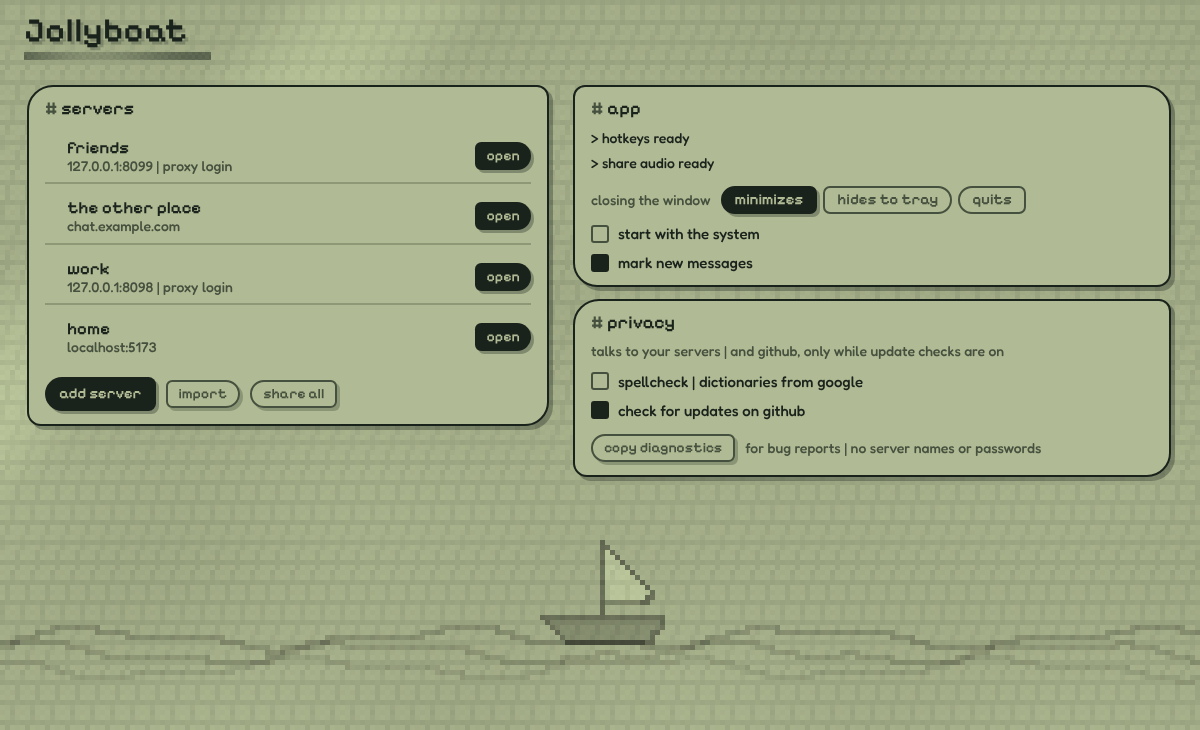
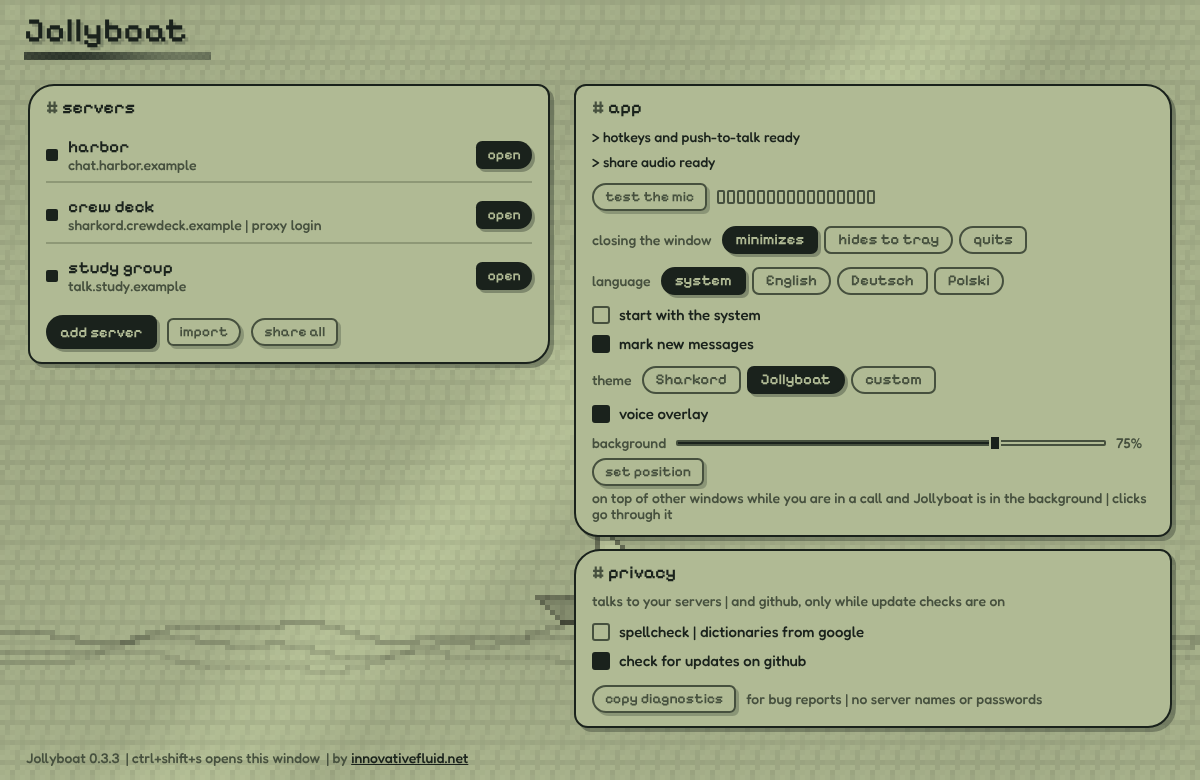
Overlay always lets clicks through, placed once with "set position"; README pass
- the overlay ignores the mouse always; its buttons and the click-through option are gone
  (mute / deafen / pop-out live in Sharkord, the bar and the hotkeys)
- "set position" (settings, under the overlay): it shows, with a stand-in row outside a call,
  becomes draggable with a dashed edge and a done button; done saves the spot. not on wayland,
  where an app can neither move its window nor learn where it is (the hint says so)
- README: sorted into "in a call" and "around it", screenshot of the Jollyboat theme on a
  Sharkord page, fresh settings screenshot

Claude-Session: https://claude.ai/code/session_01QEMnCDTKkcJ4ZdL3ogefjx

diff --git a/src/main/overlay.ts b/src/main/overlay.ts
@@ -1,12 +1,15 @@
 // The voice overlay (opt-in): a small always-on-top window listing who is in our voice channel,
 // who talks, who is muted. It shows while we are in a call and the server window is not the
-// focused one (you see Sharkord itself then), and remembers where it was dragged to.
+// focused one (you see Sharkord itself then). Clicks always go through it to whatever is
+// underneath; "set position" in the settings makes it draggable once, until its done button.
 //
-// Wayland: the desktop places windows and decides about "always on top", so there the overlay is
-// a normal small window (KDE can keep it above with a window rule).
+// Wayland: the desktop places windows and decides about "always on top" (an app can neither
+// move its window nor learn where it is), so there is no "set position" there; KDE can keep
+// it above and in place with a window rule.
 
 import { BrowserWindow, screen } from 'electron';
 import type { TOverlayState, TVoiceMember, TVoiceState } from '../shared/types';
+import { t } from './lang';
 import { iconPath, pageUrl, preloadPath } from './paths';
 import { getSettings, saveSettings } from './settings';
 
@@ -14,8 +17,7 @@ const WIDTH = 240;
 
 let win: BrowserWindow | null = null;
 let inVoice = false;
-let voice: TVoiceState = { connected: false, inVoice: false, micMuted: false, deafened: false, speaking: false };
-let streams = 0;
+let positioning = false;
 let channel = '';
 let members: TVoiceMember[] = [];
 let theme: 'light' | 'dark' = 'light';
@@ -25,7 +27,7 @@ let lastSent = '';
 
 export const isWayland = () => process.platform === 'linux' && (process.env.XDG_SESSION_TYPE === 'wayland' || !!process.env.WAYLAND_DISPLAY);
 
-const wanted = () => getSettings().overlay && inVoice && !hostFocused;
+const wanted = () => getSettings().overlay && (positioning || (inVoice && !hostFocused));
 
 /** the saved position, if it is still on a display; else the top left of the main display */
 const position = () => {
@@ -38,16 +40,19 @@ const position = () => {
   return { x: area.x + 24, y: area.y + 24 };
 };
 
+// while it is being placed outside a call: a stand-in row, so it has its usual size
+const sample = (): TVoiceMember[] => [{ name: t('you'), self: false, speaking: true, micMuted: false, deafened: false, sharing: false, video: false }];
+
 const state = (): TOverlayState => ({
-  channel,
-  members,
+  channel: positioning && !inVoice ? t('voice') : channel,
+  members: positioning && !members.length ? sample() : members,
   theme,
   opacity: getSettings().overlayOpacity,
-  micMuted: voice.micMuted,
-  deafened: voice.deafened,
-  streams,
-  clickThrough: getSettings().overlayClickThrough
+  positioning
 });
+
+/** clicks pass through, except while it is being placed */
+const applyMouse = () => win?.setIgnoreMouseEvents(!positioning, { forward: false });
 
 const send = () => {
   if (!win || win.isDestroyed()) return;
@@ -92,20 +97,9 @@ const create = () => {
   win.webContents.on('will-navigate', (event) => event.preventDefault());
   win.webContents.on('did-finish-load', () => {
     lastSent = '';
-    win?.setIgnoreMouseEvents(getSettings().overlayClickThrough, { forward: true });
+    applyMouse();
     send();
-    if (wanted()) win?.showInactive();
-  });
-  // a drag fires this many times: the spot is written once it comes to rest
-  let moveTimer: NodeJS.Timeout | null = null;
-  win.on('moved', () => {
-    if (moveTimer) clearTimeout(moveTimer);
-    moveTimer = setTimeout(() => {
-      moveTimer = null;
-      if (!win) return;
-      const [nx, ny] = win.getPosition();
-      saveSettings({ overlayPosition: { x: nx!, y: ny! } });
-    }, 400);
+    if (wanted()) (positioning ? win?.show() : win?.showInactive());
   });
   win.on('closed', () => {
     win = null;
@@ -118,6 +112,7 @@ const create = () => {
 /** show, hide or update the overlay after anything it depends on changed */
 export const refreshOverlay = () => {
   if (!getSettings().overlay) {
+    positioning = false;
     win?.destroy();
     win = null;
     return;
@@ -127,18 +122,36 @@ export const refreshOverlay = () => {
     return;
   }
   if (!win) return create();
-  // let clicks through (position locked, buttons off) or not; mouse moves still reach the page
-  win.setIgnoreMouseEvents(getSettings().overlayClickThrough, { forward: true });
+  applyMouse();
   send();
   if (!win.isVisible()) win.showInactive();
 };
 
-export const setOverlayVoice = (next: TVoiceState, name: string, list: TVoiceMember[], playing: number) => {
-  voice = next;
+export const setOverlayVoice = (next: TVoiceState, name: string, list: TVoiceMember[]) => {
   inVoice = next.inVoice;
-  streams = playing;
   channel = name;
   members = inVoice ? list : [];
+  refreshOverlay();
+};
+
+/** "set position": shown and draggable until its done button (not on wayland, see above) */
+export const startPositioning = () => {
+  if (!getSettings().overlay || isWayland()) return;
+  positioning = true;
+  if (!win) return create();
+  applyMouse();
+  send();
+  win.show();
+  win.focus();
+};
+
+export const finishPositioning = () => {
+  if (!positioning) return;
+  positioning = false;
+  if (win) {
+    const [x, y] = win.getPosition();
+    saveSettings({ overlayPosition: { x: x!, y: y! } });
+  }
   refreshOverlay();
 };
 
@@ -162,4 +175,4 @@ export const setOverlayHeight = (sender: Electron.WebContents, h: number) => {
 };
 
 export const describeOverlay = () =>
-  `overlay: ${getSettings().overlay ? `on, ${getSettings().overlayOpacity}% background${getSettings().overlayClickThrough ? ', click-through' : ''}${win?.isVisible() ? ', showing' : ''}${isWayland() ? ', wayland' : ''}` : 'off'}`;
+  `overlay: ${getSettings().overlay ? `on, ${getSettings().overlayOpacity}% background${getSettings().overlayPosition ? ', placed' : ''}${win?.isVisible() ? ', showing' : ''}${isWayland() ? ', wayland' : ''}` : 'off'}`;

diff --git a/src/main/ipc.ts b/src/main/ipc.ts
@@ -1,7 +1,7 @@
 import { BrowserWindow, ipcMain, net, safeStorage, shell, webContents, type BaseWindow, type IpcMainEvent, type IpcMainInvokeEvent } from 'electron';
 import type { TServerInput, TSettings, TTestResult, TVoiceReport } from '../shared/types';
-import { isWayland, refreshOverlay, setOverlayHeight, setOverlayVoice } from './overlay';
-import { getMainPage, popOutStream, setStreams } from './popout';
+import { finishPositioning, isWayland, refreshOverlay, setOverlayHeight, setOverlayVoice, startPositioning } from './overlay';
+import { setStreams } from './popout';
 import { editCustomCss, refreshCustomCss, useExample } from './customcss';
 import { currentLang, onLanguageChange, t } from './lang';
 import { getAutoStart, isAutoStartSupported, setAutoStart } from './autostart';
@@ -64,7 +64,6 @@ const pickSettingsPatch = (patch: unknown): Partial<TSettings> => {
   if (p.onClose === 'minimize' || p.onClose === 'tray' || p.onClose === 'quit') out.onClose = p.onClose;
   if (typeof p.notifyTray === 'boolean') out.notifyTray = p.notifyTray;
   if (typeof p.overlay === 'boolean') out.overlay = p.overlay;
-  if (typeof p.overlayClickThrough === 'boolean') out.overlayClickThrough = p.overlayClickThrough;
   if (p.theme === 'none' || p.theme === 'jollyboat' || p.theme === 'custom') out.theme = p.theme;
   if (p.language === 'system' || p.language === 'en' || p.language === 'de' || p.language === 'pl') out.language = p.language;
   if (typeof p.overlayOpacity === 'number' && Number.isFinite(p.overlayOpacity)) out.overlayOpacity = Math.min(100, Math.max(0, Math.round(p.overlayOpacity)));
@@ -176,11 +175,10 @@ export const registerIpc = ({ connectToServer, getMainWindow, spellcheckAtStart 
     if (ownPageOf(event.senderFrame?.url ?? '') !== 'overlay') return;
     setOverlayHeight(event.sender, Number(h));
   });
-  // the overlay's buttons: sharkord's own mic / deafen buttons, or the stream pop-out
-  ipcMain.on('overlay:action', (event, action: unknown) => {
+  // the overlay while it is being placed: its done button
+  ipcMain.on('overlay:done', (event) => {
     if (ownPageOf(event.senderFrame?.url ?? '') !== 'overlay') return;
-    if (action === 'mic' || action === 'sound') getMainPage()?.send('shell:voice-action', action);
-    else if (action === 'popout') void popOutStream();
+    finishPositioning();
   });
   ipcMain.on('server:voice', (event, state: TVoiceReport) => {
     if (!fromSavedServer(event)) return;
@@ -204,7 +202,7 @@ export const registerIpc = ({ connectToServer, getMainWindow, spellcheckAtStart 
       sharing: m?.sharing === true,
       video: m?.video === true
     }));
-    setOverlayVoice(voice, String(state?.channel ?? '').slice(0, 64), members, Math.max(0, Math.min(99, Number(state?.streams) || 0)));
+    setOverlayVoice(voice, String(state?.channel ?? '').slice(0, 64), members);
     setStreams(voice.inVoice ? Math.max(0, Math.min(99, Number(state?.streams) || 0)) : 0);
   });
   ipcMain.on('server:notification', (event) => {
@@ -259,7 +257,7 @@ export const registerIpc = ({ connectToServer, getMainWindow, spellcheckAtStart 
     const saved = saveSettings(picked);
     if (picked.spellcheck !== undefined) applySpellcheck(saved.spellcheck);
     if (picked.checkUpdates === true) startUpdater();
-    if (picked.overlay !== undefined || picked.overlayOpacity !== undefined || picked.overlayClickThrough !== undefined) refreshOverlay();
+    if (picked.overlay !== undefined || picked.overlayOpacity !== undefined) refreshOverlay();
     if (picked.theme !== undefined) refreshCustomCss();
     if (picked.language !== undefined) onLanguageChange();
     return saved;
@@ -282,6 +280,7 @@ export const registerIpc = ({ connectToServer, getMainWindow, spellcheckAtStart 
   ipcMain.handle('servers:connect', guard((_e, id: unknown) => connectToServer(String(id))));
   ipcMain.handle('bridge:status', guard(() => getBridgeStatus()));
   ipcMain.handle('css:edit', guard(() => editCustomCss()));
+  ipcMain.handle('overlay:position', guard(() => startPositioning()));
   ipcMain.handle('css:example', guard(() => useExample()));
   ipcMain.handle('screenAudio:info', guard(() => describeScreenAudio()));
 

diff --git a/src/renderer/overlay/index.html b/src/renderer/overlay/index.html
@@ -21,23 +21,20 @@
         border: 2px solid rgba(var(--fg-rgb), max(var(--alpha), 0.0));
         border-radius: 10px 4px 10px 4px;
         padding: 5px 6px 6px;
-        -webkit-app-region: drag;
-        cursor: move;
         --outline: rgba(var(--bg-rgb), calc(1 - var(--alpha) * 0.6));
         text-shadow: 1px 0 var(--outline), -1px 0 var(--outline), 0 1px var(--outline), 0 -1px var(--outline);
       }
       .head { display: flex; align-items: center; gap: 4px; font: 500 12px/1 var(--px); color: var(--dim); padding: 1px 2px 5px 4px; }
       .head .name { flex: 1; overflow: hidden; white-space: nowrap; text-overflow: ellipsis; }
-      /* the buttons: sharkord's mic / deafen, and the stream pop-out. outline off, filled on */
-      .head button {
-        -webkit-app-region: no-drag; cursor: pointer; width: 20px; height: 18px; padding: 0; display: grid; place-items: center;
-        background: transparent; border: 2px solid var(--dim); border-radius: 3px; color: var(--dim);
+      /* being placed: draggable, a dashed edge, and the done button */
+      :root.positioning .card { -webkit-app-region: drag; cursor: move; border-style: dashed; border-color: var(--fg); }
+      .place { display: none; align-items: center; gap: 6px; padding: 6px 2px 1px 4px; font: 500 12px/1.2 var(--px); color: var(--dim); }
+      :root.positioning .place { display: flex; }
+      .place span { flex: 1; }
+      .place button {
+        -webkit-app-region: no-drag; cursor: pointer; padding: 3px 10px; font: 600 12px/1 var(--px);
+        background: var(--fg); color: var(--bg); border: 2px solid var(--fg); border-radius: 10px 4px 10px 4px;
       }
-      .head button:hover { border-color: var(--fg); color: var(--fg); }
-      .head button.on { background: var(--fg); border-color: var(--fg); color: var(--bg); }
-      .head button svg { width: 12px; height: 12px; shape-rendering: crispEdges; display: block; }
-      .head button[hidden] { display: none; }
-      :root.click-through .head button { display: none; }
       .rows { display: flex; flex-direction: column; gap: 2px; }
       .row { display: flex; align-items: center; gap: 7px; padding: 3px 5px; border-radius: 4px; font: 600 14px/1.1 var(--px); color: var(--fg); }
       .row .who { flex: 1; overflow: hidden; white-space: nowrap; text-overflow: ellipsis; }
@@ -57,11 +54,9 @@
     <div class="card" id="card">
       <div class="head">
         <span class="name" id="channel">voice</span>
-        <button id="popout" title="pop out stream" data-i18n-title hidden><svg viewBox="0 0 12 12"><path d="M0 2h6v1H1v8h8V6h1v6H0zM7 0h5v5h-1V2l-5 5-1-1 5-5H7z" fill="currentColor"/></svg></button>
-        <button id="mic" title="mute"><svg viewBox="0 0 12 12"><path d="M4 1h4v6H4zM2 5h1v2H2zM9 5h1v2H9zM3 7h1v1H3zM8 7h1v1H8zM4 8h4v1H4zM5 9h2v1H5zM3 10h6v1H3z" fill="currentColor"/></svg></button>
-        <button id="sound" title="deafen"><svg viewBox="0 0 12 12"><path d="M3 2h6v1H3zM2 3h1v3H2zM9 3h1v3H9zM1 6h3v4H1zM8 6h3v4H8z" fill="currentColor"/></svg></button>
       </div>
       <div class="rows" id="rows"></div>
+      <div class="place"><span data-i18n>drag it where you want it</span><button id="done" data-i18n>done</button></div>
     </div>
     <script type="module" src="./main.ts"></script>
   </body>

diff --git a/src/renderer/overlay/main.ts b/src/renderer/overlay/main.ts
@@ -20,12 +20,7 @@ let state: TOverlayState | null = null;
 
 translatePage();
 const card = document.getElementById('card')!;
-const mic = document.getElementById('mic') as HTMLButtonElement;
-const sound = document.getElementById('sound') as HTMLButtonElement;
-const popout = document.getElementById('popout') as HTMLButtonElement;
-mic.onclick = () => window.shell.overlayAction('mic');
-sound.onclick = () => window.shell.overlayAction('sound');
-popout.onclick = () => window.shell.overlayAction('popout');
+document.getElementById('done')!.onclick = () => window.shell.overlayDone();
 const rows = document.getElementById('rows')!;
 const channel = document.getElementById('channel')!;
 
@@ -60,12 +55,7 @@ const render = () => {
   document.documentElement.dataset.theme = state.theme;
   document.documentElement.style.setProperty('--alpha', String(state.opacity / 100));
   channel.textContent = state.channel ? `> ${state.channel}` : `> ${t('voice')}`;
-  document.documentElement.classList.toggle('click-through', state.clickThrough);
-  mic.classList.toggle('on', state.micMuted);
-  mic.title = state.micMuted ? t('unmute') : t('mute');
-  sound.classList.toggle('on', state.deafened);
-  sound.title = state.deafened ? t('undeafen') : t('deafen');
-  popout.hidden = !state.streams;
+  document.documentElement.classList.toggle('positioning', state.positioning);
   rows.replaceChildren(...state.members.map((m) => rowFor(m, now)));
   if (!state.members.length) {
     const empty = document.createElement('div');

diff --git a/src/shared/types.ts b/src/shared/types.ts
@@ -46,8 +46,6 @@ export type TSettings = {
   language: 'system' | 'en' | 'de' | 'pl';
   /** a theme on the server page: none, the app's own lcd look, or custom.css next to the settings */
   theme: 'none' | 'jollyboat' | 'custom';
-  /** clicks go through the overlay to whatever is under it (the buttons are off then) */
-  overlayClickThrough: boolean;
   /** where the overlay was left (top-left corner), null = top left of the main display */
   overlayPosition: { x: number; y: number } | null;
   /** flatpak: what the background portal last granted for starting at login (the portal's
@@ -68,7 +66,7 @@ export type TVoiceMember = { name: string; self: boolean; speaking: boolean; mic
 export type TVoiceReport = TVoiceState & { channel: string; members: TVoiceMember[]; /** playing stream videos (screen shares, cameras) that could be popped out */ streams: number };
 
 /** what the overlay window shows */
-export type TOverlayState = { channel: string; members: TVoiceMember[]; theme: 'light' | 'dark'; opacity: number; micMuted: boolean; deafened: boolean; streams: number; clickThrough: boolean };
+export type TOverlayState = { channel: string; members: TVoiceMember[]; theme: 'light' | 'dark'; opacity: number; /** being placed: draggable, with a done button */ positioning: boolean };
 
 export type TUpdateStatus = { state: 'idle' | 'checking' | 'available' | 'downloaded' | 'none' | 'error'; version?: string; message?: string; url?: string };
 

diff --git a/src/renderer/launcher/main.ts b/src/renderer/launcher/main.ts
@@ -351,16 +351,16 @@ const renderSettings = async () => {
   overlay.checked = settings.overlay;
   opacity.value = String(settings.overlayOpacity);
   $('overlay-options').hidden = !overlay.checked;
-  if (window.shell.wayland) $('overlay-hint').textContent = t('shows while you are in a call and Jollyboat is in the background | on wayland the desktop places it (kde: a window rule keeps it on top)');
+  if (window.shell.wayland) $('overlay-hint').textContent = t('on top of other windows while you are in a call and Jollyboat is in the background | clicks go through it | on wayland the desktop places it (kde: a window rule keeps it in place and on top)');
   showOpacity();
   overlay.onchange = () => {
     $('overlay-options').hidden = !overlay.checked;
     window.shell.saveSettings({ overlay: overlay.checked });
     toast(t('saved'));
   };
-  const clickThrough = $<HTMLInputElement>('overlay-click-through');
-  clickThrough.checked = settings.overlayClickThrough;
-  clickThrough.onchange = () => { window.shell.saveSettings({ overlayClickThrough: clickThrough.checked }); toast('saved'); };
+  // placing it: shown and draggable until its done button. wayland lets the desktop place it
+  $('overlay-position-row').hidden = window.shell.wayland;
+  $('overlay-position').onclick = () => window.shell.positionOverlay();
   let opacityTimer = 0;
   opacity.oninput = () => {
     showOpacity();

diff --git a/src/preload/index.ts b/src/preload/index.ts
@@ -39,6 +39,7 @@ if (boot.ownPage) {
       screenAudioInfo: () => ipcRenderer.invoke('screenAudio:info'),
       openWebsite: () => ipcRenderer.invoke('app:website'),
       editCustomCss: () => ipcRenderer.invoke('css:edit') as Promise<string>,
+      positionOverlay: () => ipcRenderer.invoke('overlay:position'),
       useCssExample: () => ipcRenderer.invoke('css:example'),
       shareCode: (ids: string[] | null, withPasswords: boolean) => ipcRenderer.invoke('share:code', ids, withPasswords),
       exportFile: (ids: string[] | null, withPasswords: boolean) => ipcRenderer.invoke('share:exportFile', ids, withPasswords),
@@ -74,7 +75,7 @@ if (boot.ownPage) {
         ipcRenderer.on('overlay:state', (_e, state) => cb(state));
       },
       overlayHeight: (h: number) => ipcRenderer.send('overlay:height', h),
-      overlayAction: (action: 'mic' | 'sound' | 'popout') => ipcRenderer.send('overlay:action', action)
+      overlayDone: () => ipcRenderer.send('overlay:done')
     }
   };
   contextBridge.exposeInMainWorld('shell', { ...common, ...(boot.ownPage ? byPage[boot.ownPage] : {}) });

diff --git a/src/renderer/launcher/index.html b/src/renderer/launcher/index.html
@@ -134,8 +134,8 @@
                 <input type="range" class="slider" id="overlay-opacity" min="0" max="100" step="5" aria-label="overlay background" />
                 <span class="meta" id="overlay-opacity-value" style="min-width: 38px"></span>
               </div>
-              <label class="check" style="margin-top: 6px; display: flex"><input type="checkbox" id="overlay-click-through" /> <span data-i18n>clicks go through it | buttons off, hotkeys only</span></label>
-              <div class="hint" id="overlay-hint" style="margin-top: 4px" data-i18n>on top of other windows while you are in a call and Jollyboat is in the background | drag it where you want it</div>
+              <div class="row" style="margin-top: 6px" id="overlay-position-row"><button class="pill minor small" id="overlay-position" data-i18n>set position</button></div>
+              <div class="hint" id="overlay-hint" style="margin-top: 4px" data-i18n>on top of other windows while you are in a call and Jollyboat is in the background | clicks go through it</div>
             </div>
           </section>
 

diff --git a/src/main/settings.ts b/src/main/settings.ts
@@ -14,7 +14,6 @@ const DEFAULTS: TSettings = {
   autostart: false,
   overlay: false,
   overlayOpacity: 75,
-  overlayClickThrough: false,
   theme: 'none',
   language: 'system',
   overlayPosition: null,
@@ -67,7 +66,7 @@ const sanitize = (raw: unknown): TSettings => {
   else if (r.customCss === true) out.theme = 'custom'; // 0.3.2
   if (r.language === 'system' || r.language === 'en' || r.language === 'de' || r.language === 'pl') out.language = r.language;
   if (r.onClose === 'minimize' || r.onClose === 'tray' || r.onClose === 'quit') out.onClose = r.onClose;
-  for (const key of ['spellcheck', 'checkUpdates', 'notifyTray', 'autostart', 'overlay', 'overlayClickThrough'] as const) {
+  for (const key of ['spellcheck', 'checkUpdates', 'notifyTray', 'autostart', 'overlay'] as const) {
     if (typeof r[key] === 'boolean') out[key] = r[key] as boolean;
   }
   const b = r.windowBounds as Record<string, unknown> | undefined;

diff --git a/src/main/index.ts b/src/main/index.ts
@@ -468,7 +468,7 @@ const dropServer = (reason: string, serverId?: string) => {
   }
   serverName = '';
   setServerName('');
-  setOverlayVoice({ connected: false, inVoice: false, micMuted: false, deafened: false, speaking: false }, '', [], 0);
+  setOverlayVoice({ connected: false, inVoice: false, micMuted: false, deafened: false, speaking: false }, '', []);
   setStreams(0);
   showLauncher(reason, serverId, visible);
 };

diff --git a/src/main/popout.ts b/src/main/popout.ts
@@ -12,7 +12,7 @@ const listeners = new Set<() => void>();
 export const bindMainPage = (get: () => WebContents | null) => {
   mainPage = get;
 };
-export const getMainPage = () => mainPage?.() ?? null;
+const getMainPage = () => mainPage?.() ?? null;
 
 export const streamCount = () => streams;
 export const onStreams = (cb: () => void) => listeners.add(cb);

diff --git a/src/renderer/shell.d.ts b/src/renderer/shell.d.ts
@@ -48,7 +48,8 @@ declare global {
       overlayHeight: (h: number) => void;
       editCustomCss: () => Promise<string>;
       useCssExample: () => Promise<void>;
-      overlayAction: (action: 'mic' | 'sound' | 'popout') => void;
+      overlayDone: () => void;
+      positionOverlay: () => Promise<void>;
     };
   }
 }
